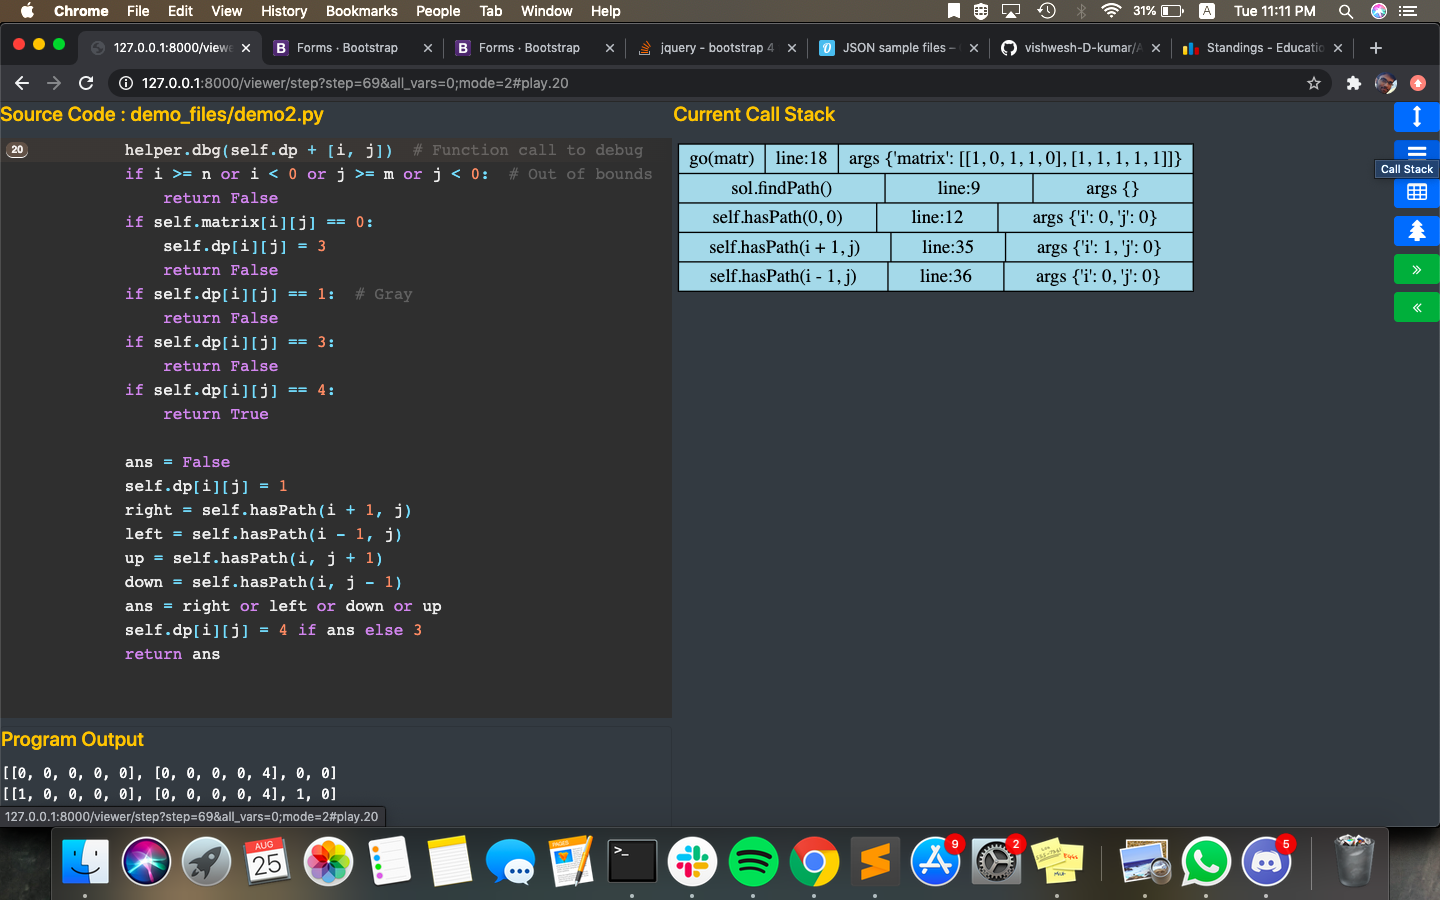
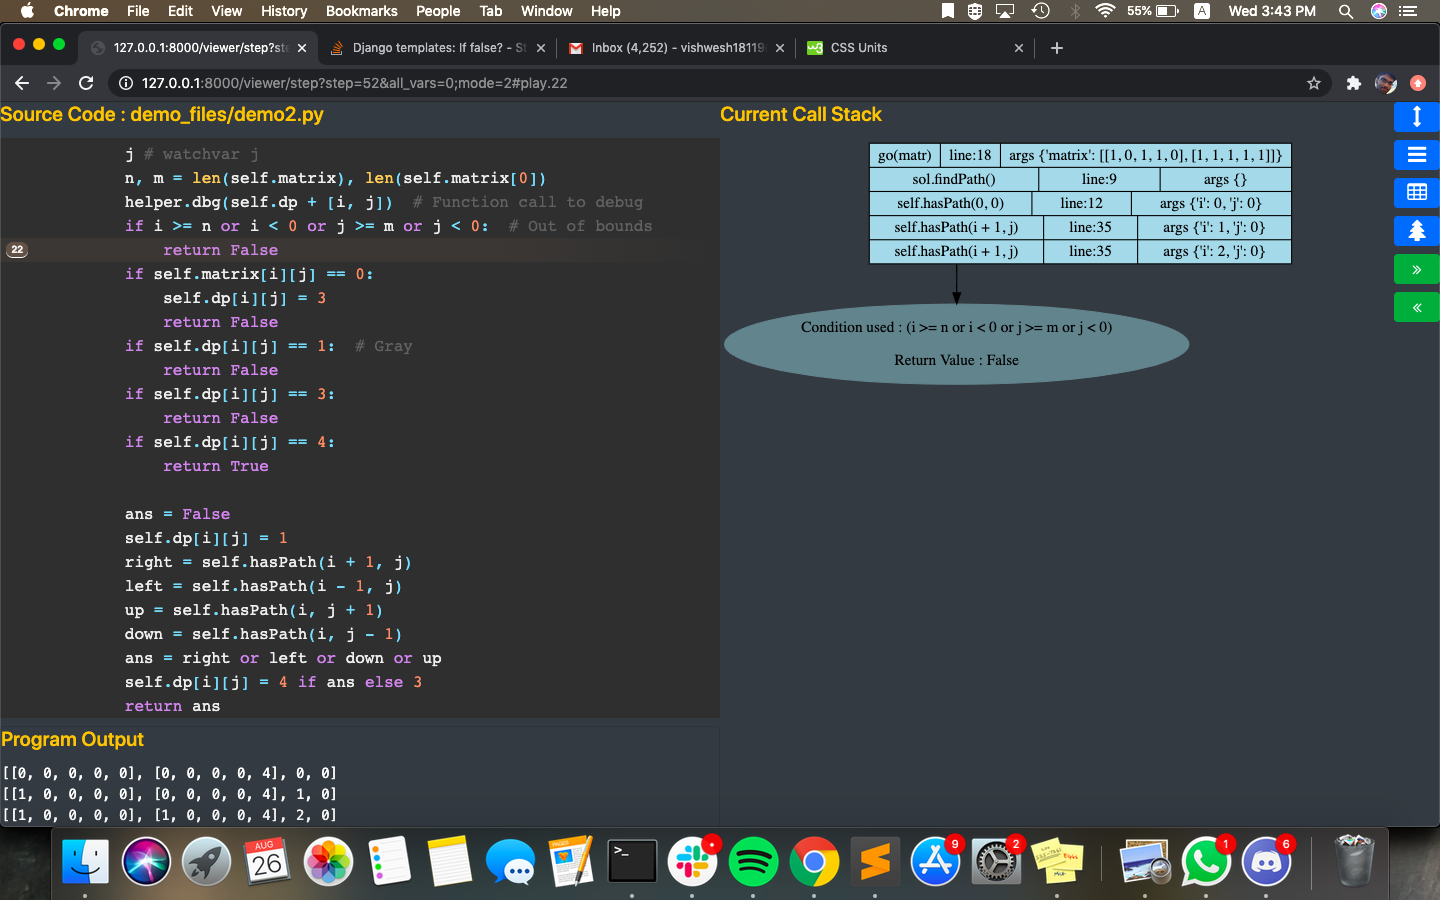
Improved instructions

diff --git a/README.md b/README.md
@@ -83,6 +83,14 @@ assuming the value of i+1 is 20 , j-1 is 32 , lets say , the corresponding stack
 ```
 l(i+1,j-1)|line 72| args {'x':20,'y':32}
 ```
+Corresponding to every return : we have a bubble containing the following attached to the stack entry to be popped
+
+1. Return value of the function call
+
+2. Conditional evaluated to get to return statement. This is exceptionally helpful in visualizing recursive dp algorithms, where the base case used can be seen corresponding to stack popped.
+
+As can be seen in the image shown as a demo: the condtional used is ``` i >= n or i < 0 or j >= m or j < 0: ```
+With a return value of False
 
 * Variable Tracing :
 
